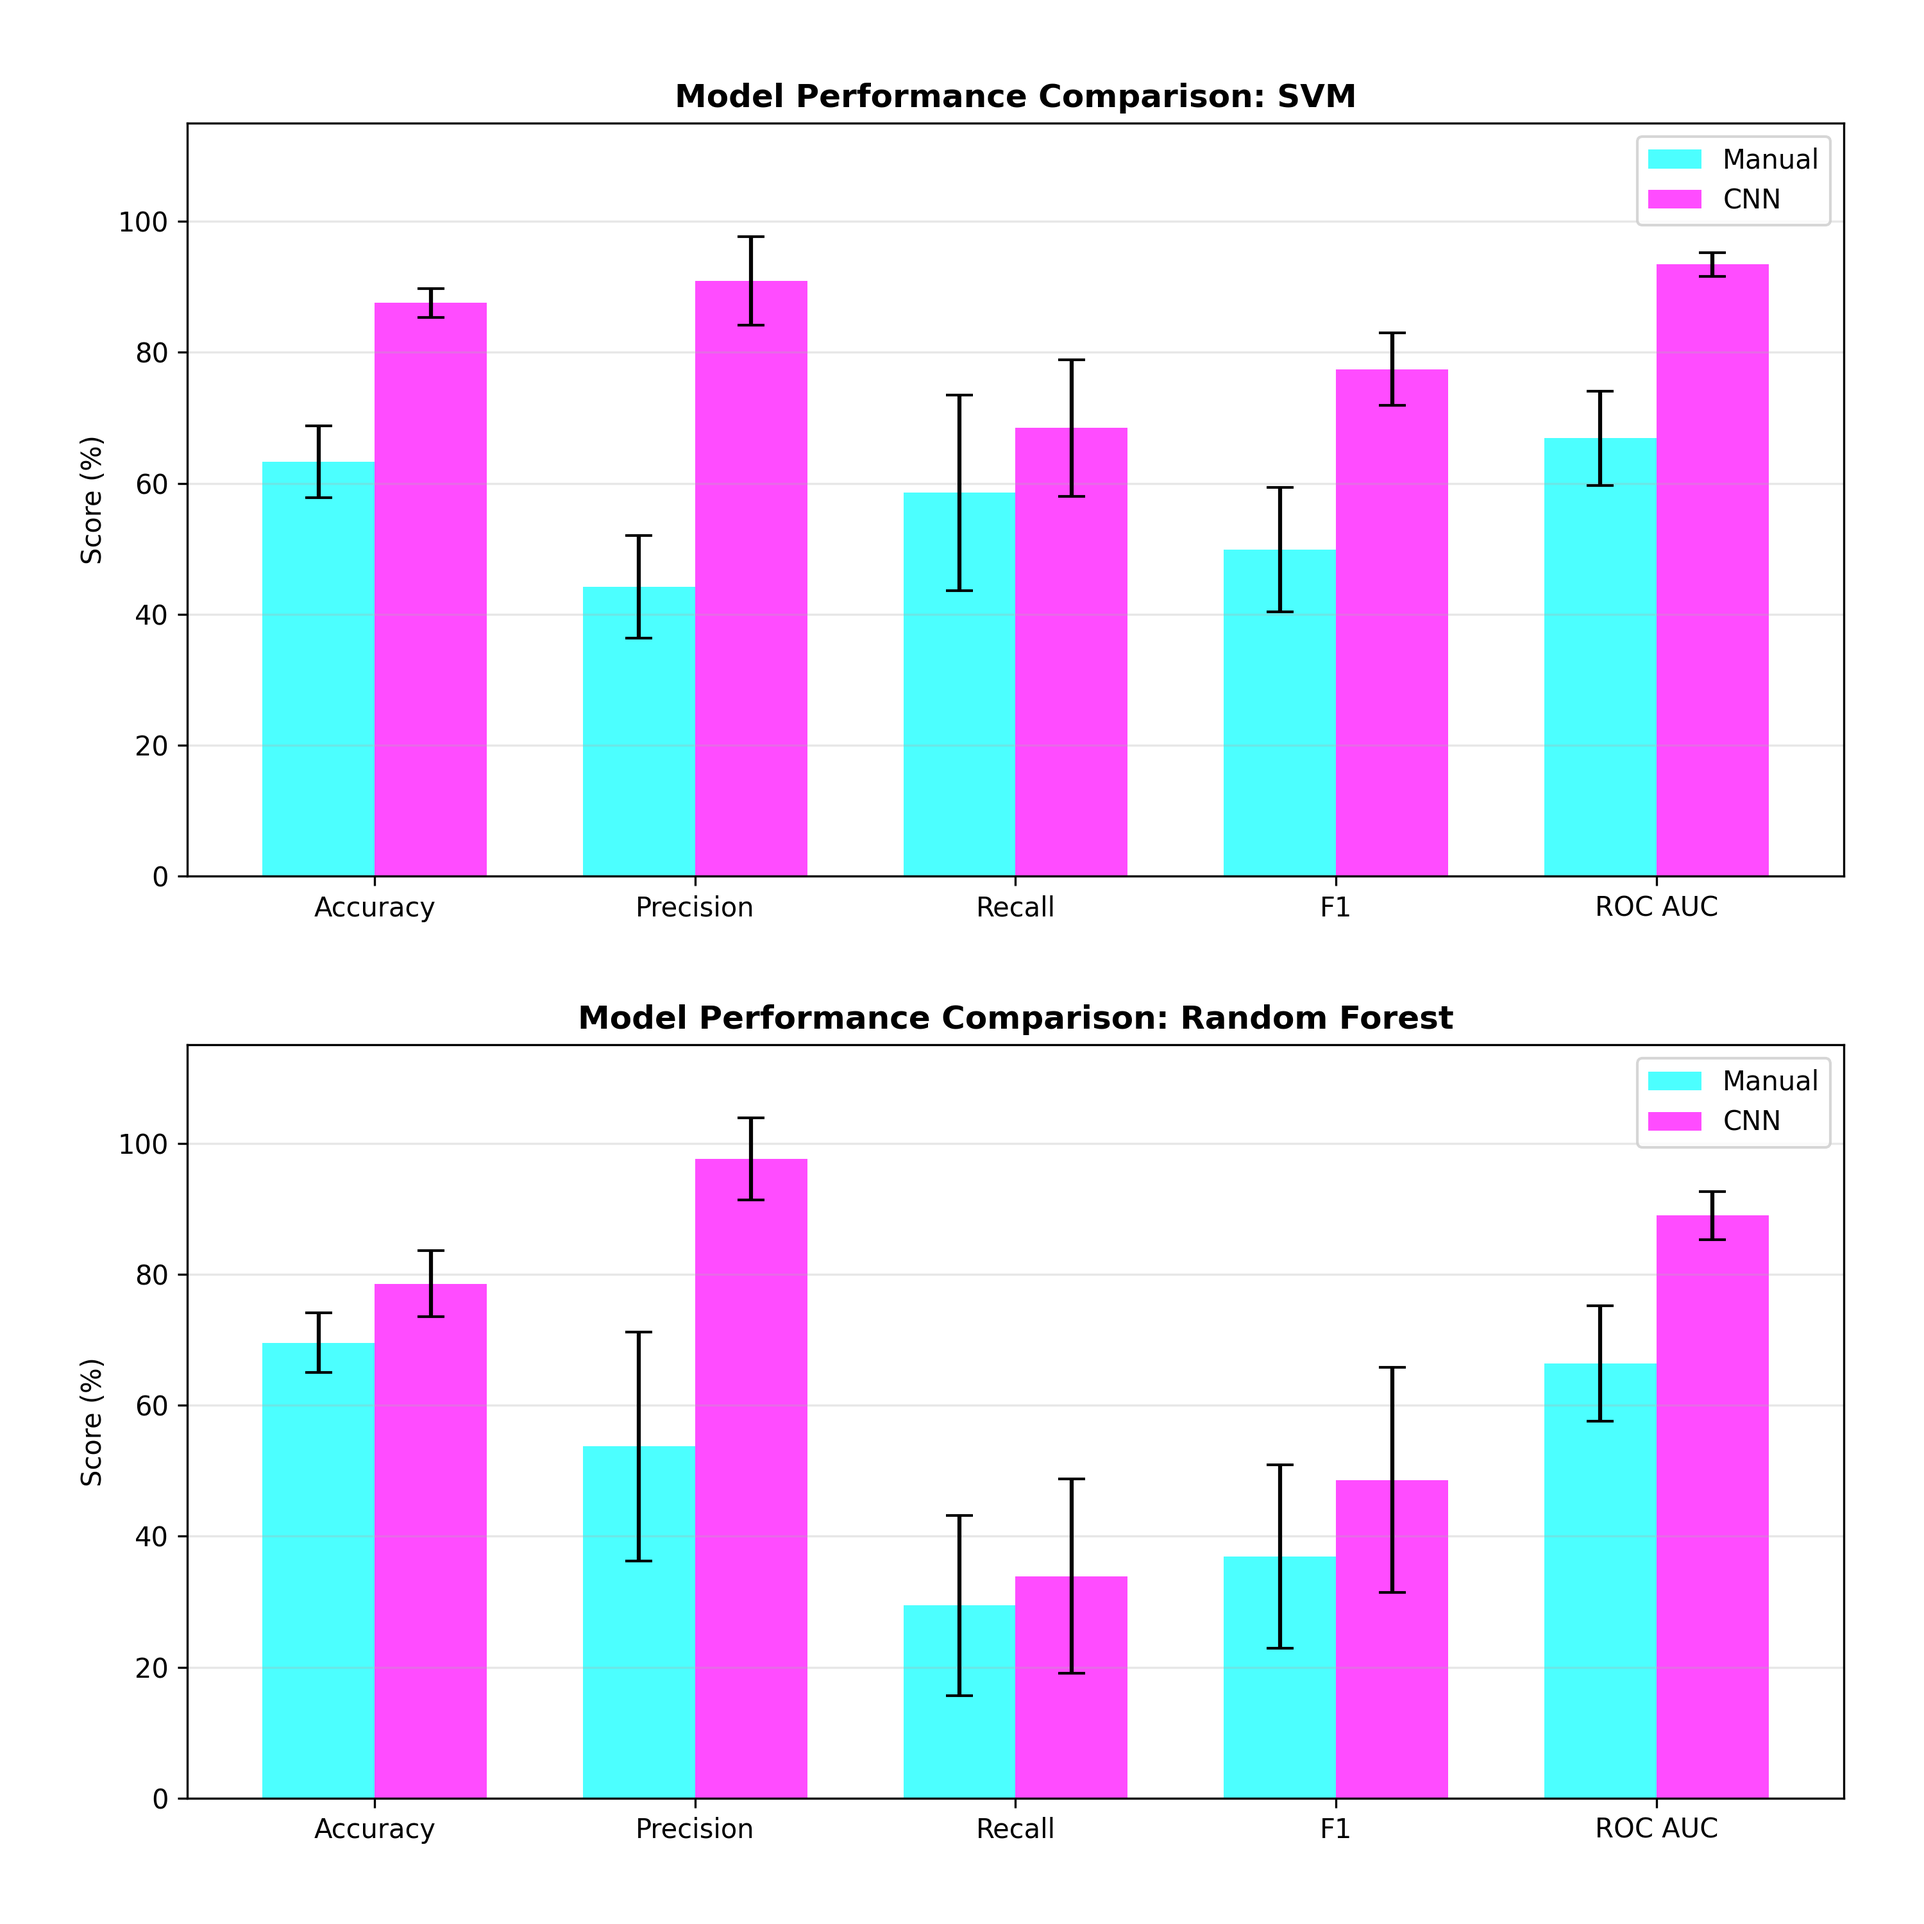
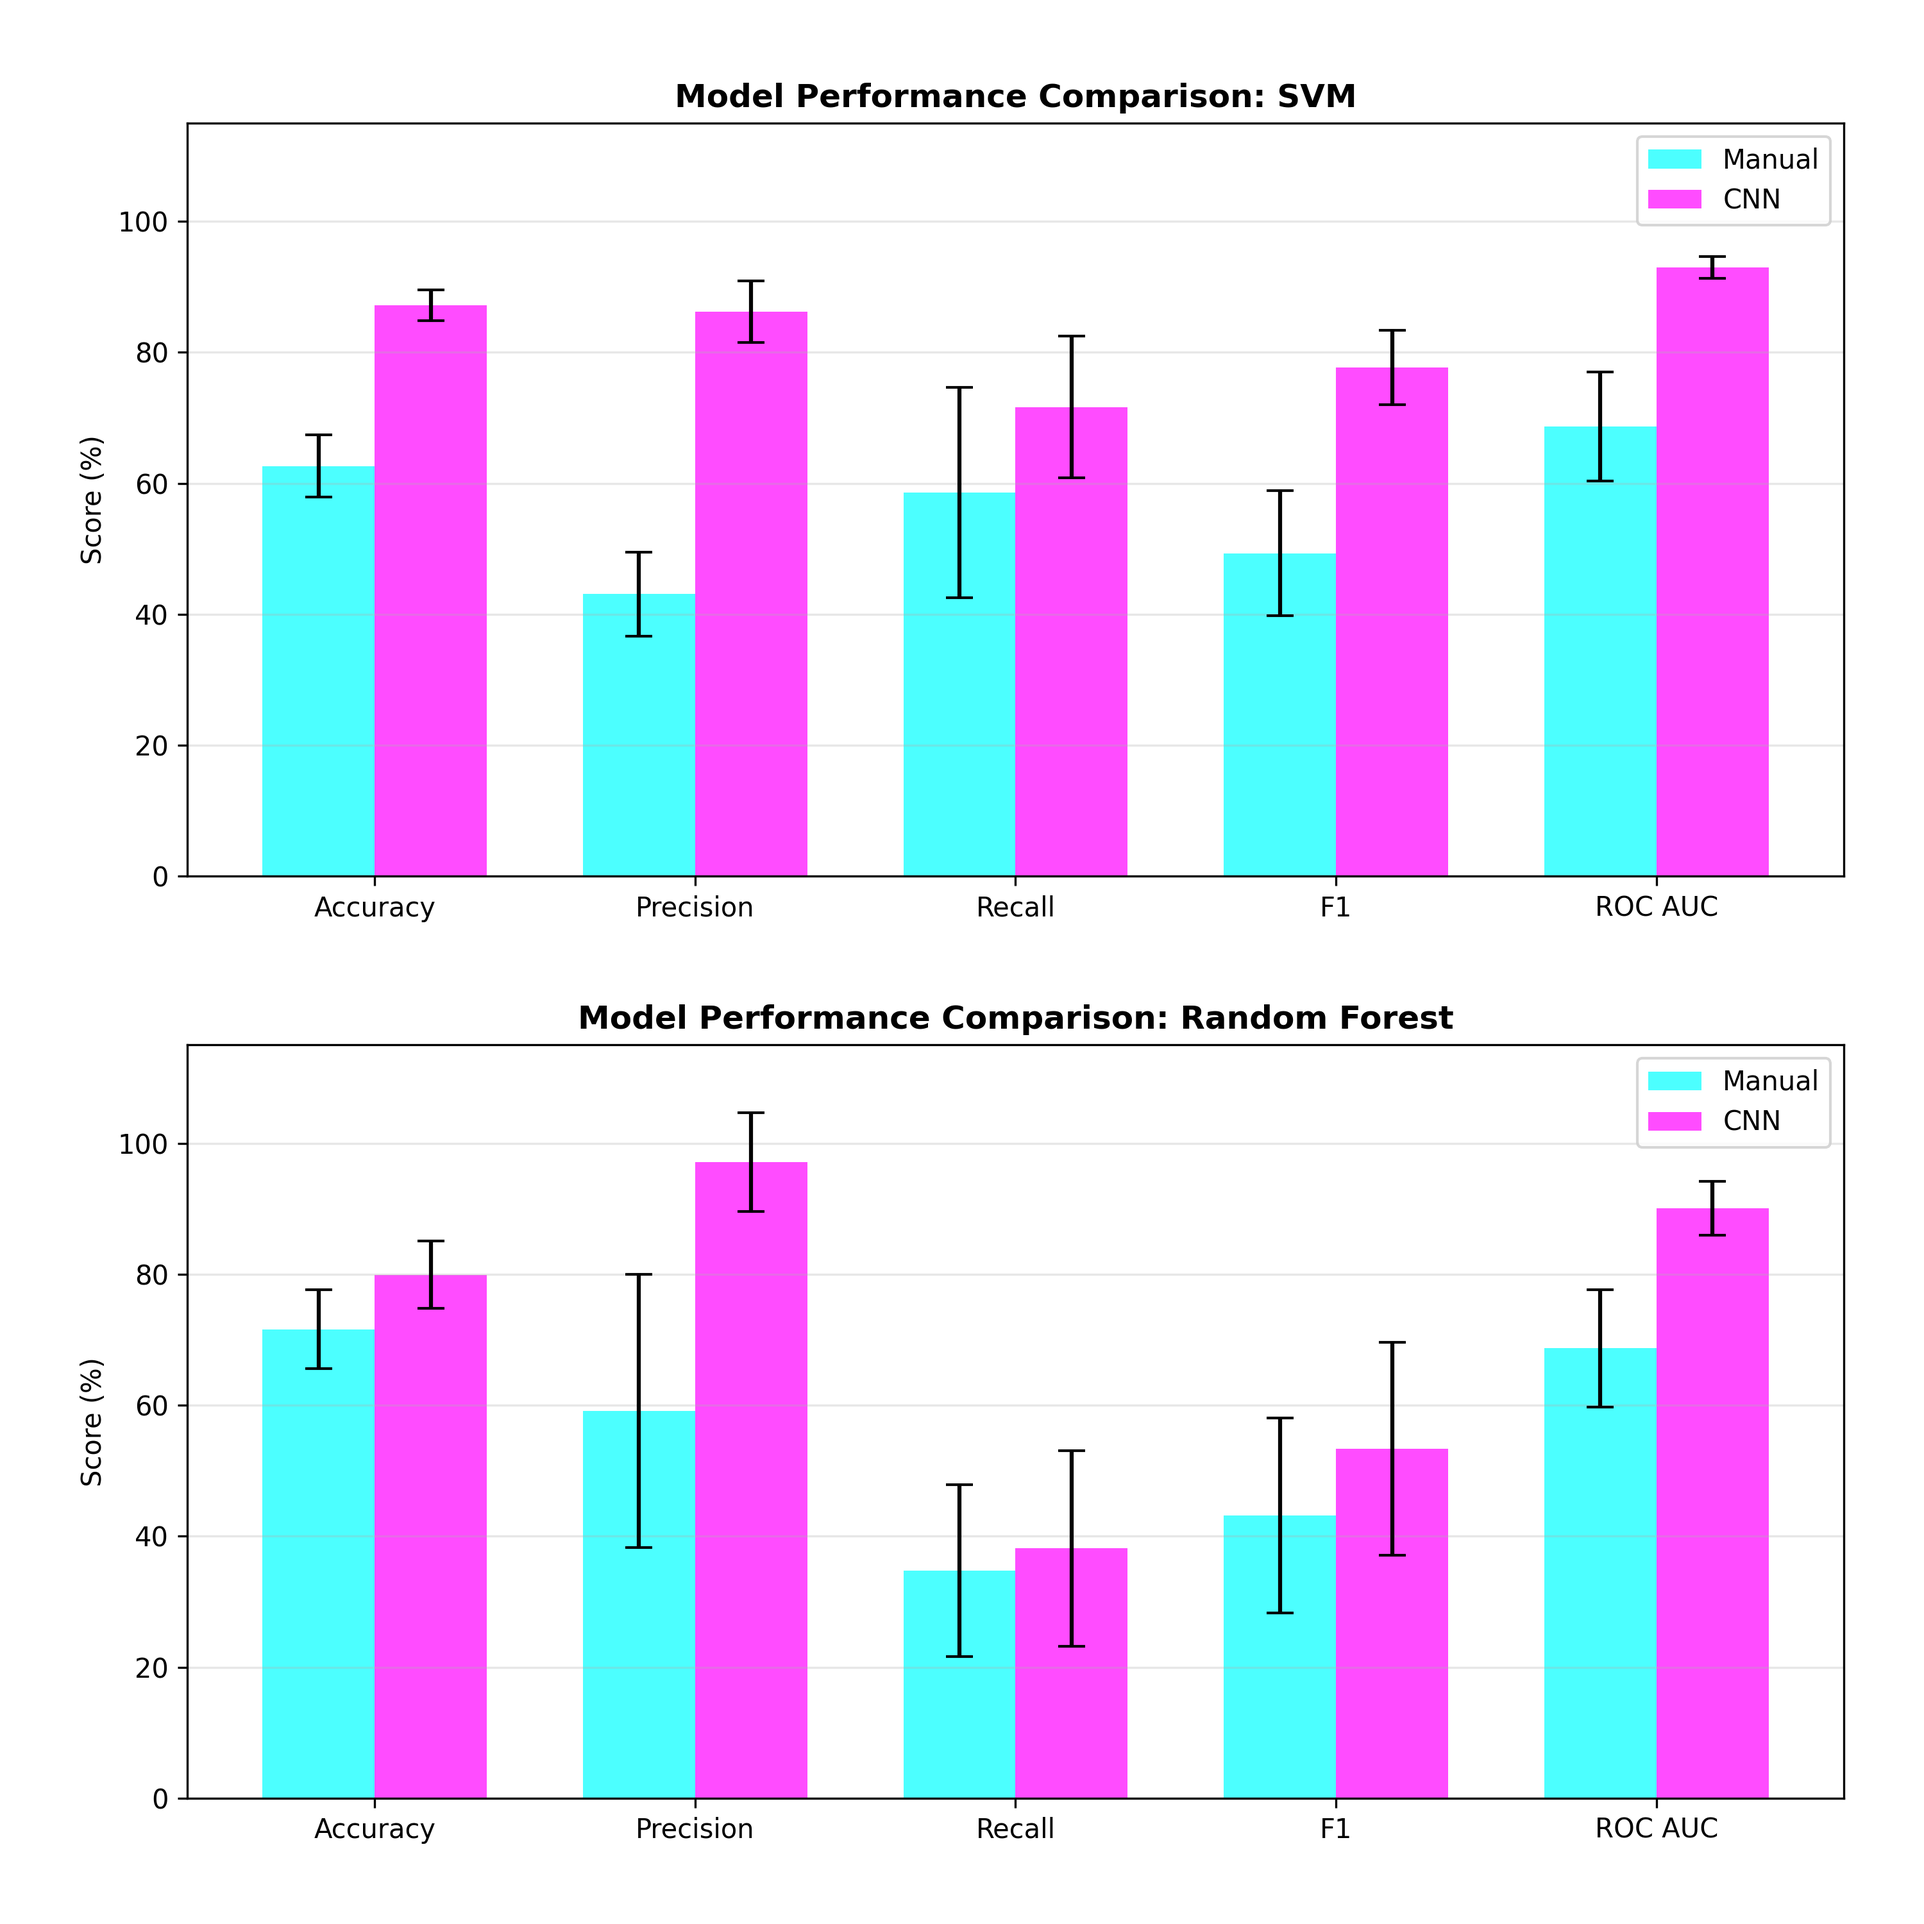
computed again comparison between performances after fixes and optimisation

diff --git a/python/pipelines_comparison.py b/python/pipelines_comparison.py
@@ -4,10 +4,16 @@ manual vs deep learning feature extraction."""
 import pandas as pd
 import numpy as np
 import matplotlib.pyplot as plt
+from pathlib import Path
+
+RESULTS_DIR = Path("results")
+FILE_M = RESULTS_DIR / "features_manual_metrics.csv"
+FILE_C = RESULTS_DIR / "features_cnn_metrics.csv"
+SAVE_PATH = RESULTS_DIR / "comparison_plot.png"
 
 # Load .csv files obtained from ml_classifier.py
-df_m = pd.read_csv("results/features_manual_metrics.csv", index_col=0)
-df_c = pd.read_csv("results/features_cnn_metrics.csv", index_col=0)
+df_m = pd.read_csv(FILE_M, index_col=0)
+df_c = pd.read_csv(FILE_C, index_col=0)
 
 # Define metrics, bars positions and width
 metrics = ['test_accuracy', 'test_precision', 'test_recall', 'test_f1', 'test_roc_auc']
